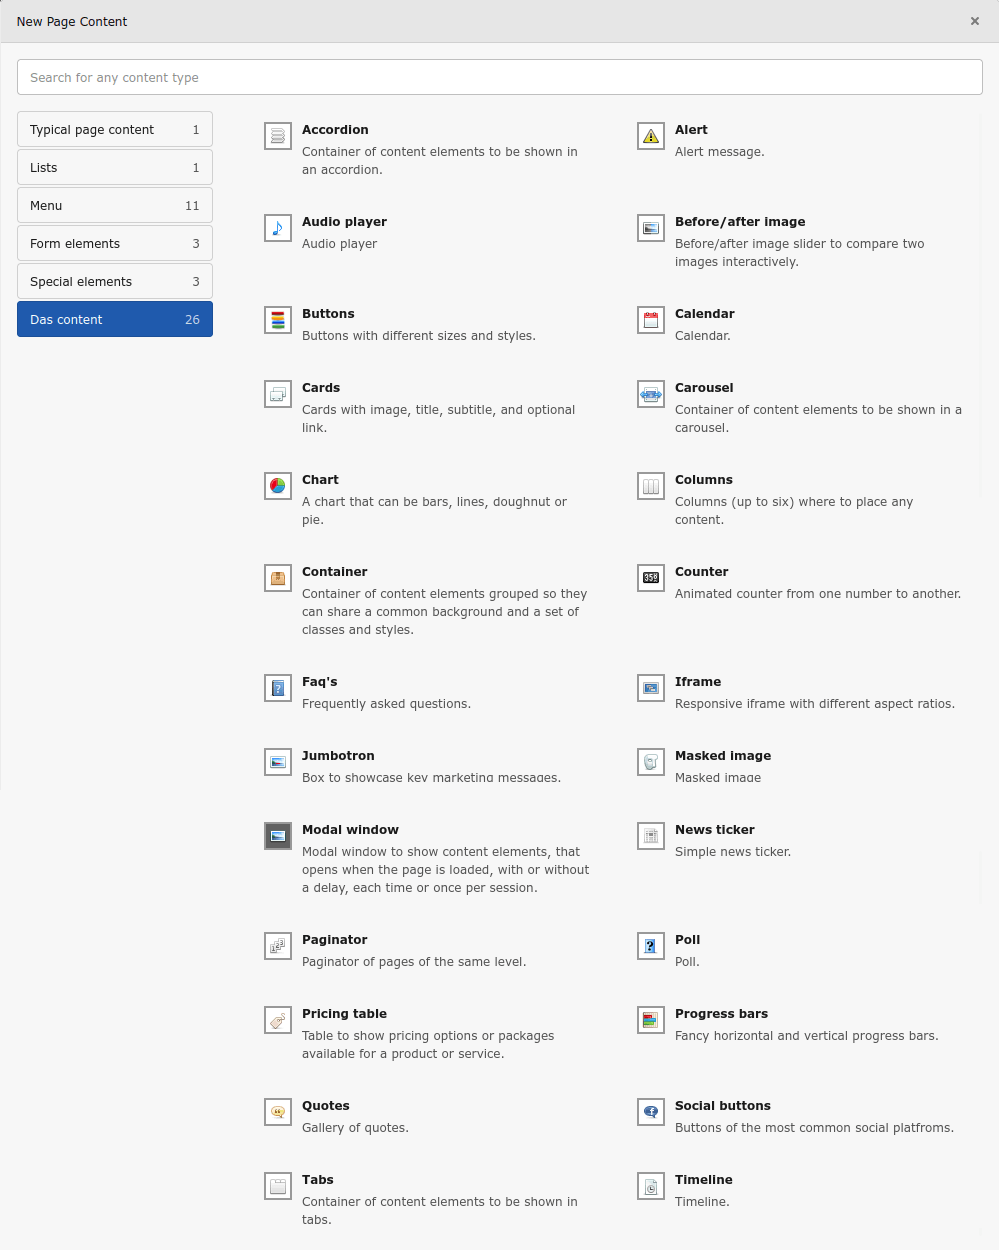
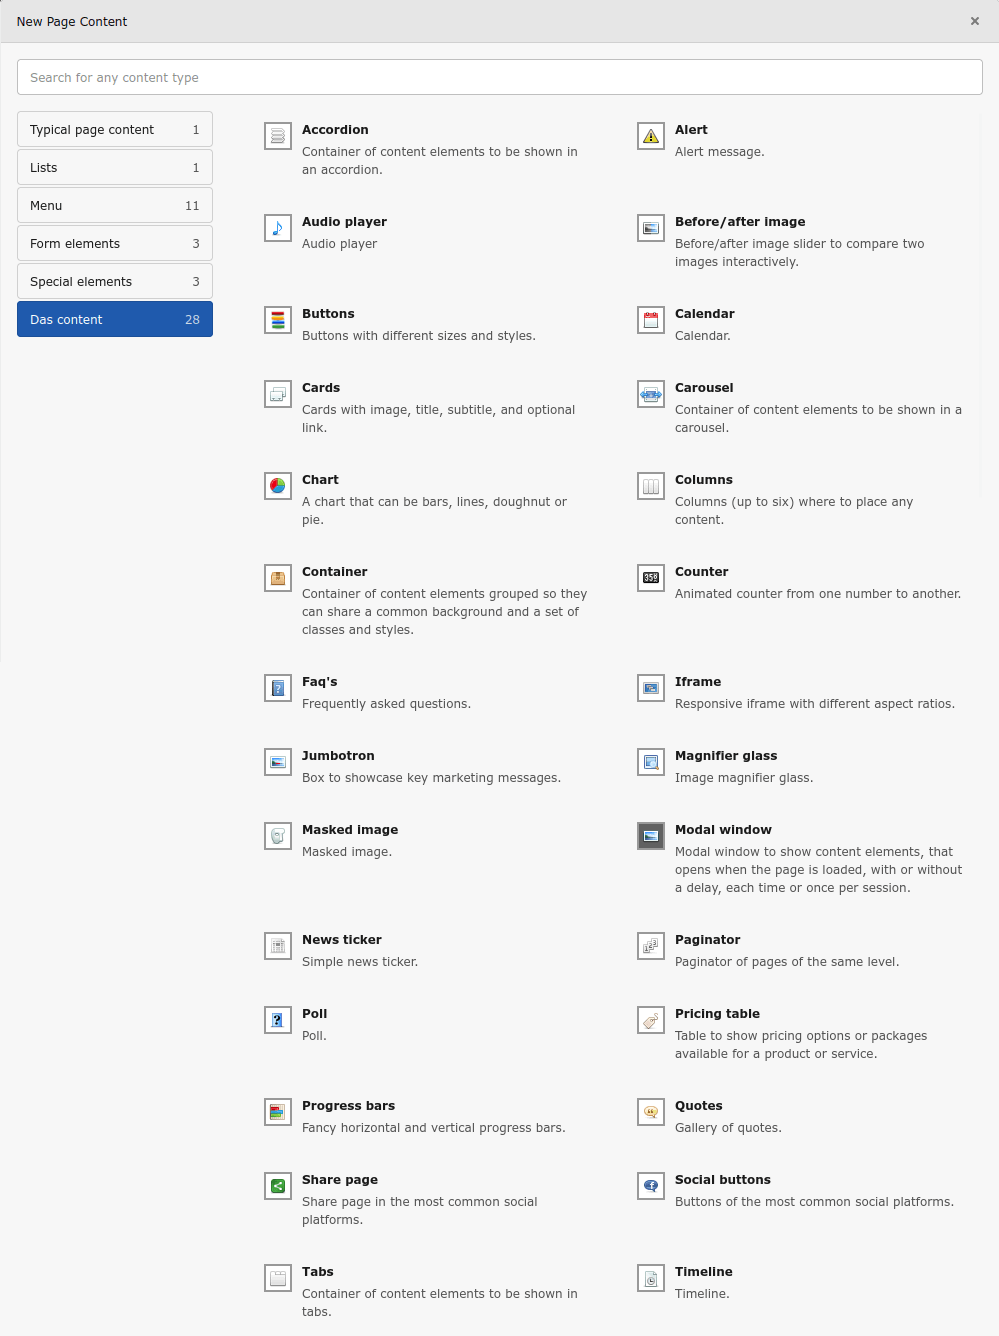
[TASK] Add Magnifier glass content element

diff --git a/Resources/Private/Templates/Content/MagnifierGlass.html b/Resources/Private/Templates/Content/MagnifierGlass.html
@@ -1,0 +1,68 @@
+<f:layout name="Content" />
+
+<f:section name="Configuration">
+    <flux:form
+        id="MagnifierGlass"
+        label="LLL:EXT:das/Resources/Private/Language/locallang_be.xlf:tt_content.magnifierglass"
+        description="LLL:EXT:das/Resources/Private/Language/locallang_be.xlf:tt_content.magnifierglass.description"
+    >
+        <flux:form.option.group
+            value="dasContent"
+        />
+        <flux:form.option.icon
+            value="EXT:das/Resources/Public/Icons/Content/MagnifierGlass.png"
+        />
+        <flux:field.select
+            name="layout"
+            label="LLL:EXT:das/Resources/Private/Language/locallang_be.xlf:layout"
+            items="{
+                0:{0: 'LLL:EXT:das/Resources/Private/Language/locallang_be.xlf:default', 1: '0'}
+            }"
+            requestUpdate="1"
+        />
+        <flux:field.inline.fal
+            name="images"
+            label="LLL:EXT:das/Resources/Private/Language/locallang_be.xlf:tt_content.magnifierglass.image"
+            description="LLL:EXT:das/Resources/Private/Language/locallang_be.xlf:tt_content.magnifierglass.image.description"
+            minItems="1"
+            maxItems="1"
+            allowedExtensions="jpg,jpeg,png,gif,webp"
+        />
+    </flux:form>
+</f:section>
+
+<f:section name="Preview">
+    <table class="table table-condensed table-hover">
+        <tbody>
+            <tr>
+                <th>
+                    <f:translate key="LLL:EXT:das/Resources/Private/Language/locallang_be.xlf:layout" />
+                </th>
+                <td width="20%">
+                    <f:if condition="{layout} == 0">
+                        <f:then>
+                            <f:translate key="LLL:EXT:das/Resources/Private/Language/locallang_be.xlf:default" />
+                        </f:then>
+                        <f:else>
+                            <f:translate key="LLL:EXT:das/Resources/Private/Language/locallang_be.xlf:custom" />
+                        </f:else>
+                    </f:if>
+                </td>
+            </tr>
+            <tr>
+                <th>
+                    <f:translate key="LLL:EXT:das/Resources/Private/Language/locallang_be.xlf:tt_content.magnifierglass.image" />
+                </th>
+                <td>
+                    <v:page.resources.fal table="tt_content" field="images" as="images" record="{record}">
+                        <img src="{f:uri.image(src: '{images.0.id}', width: 100, treatIdAsReference: 1)}" width="100" alt="" />
+                    </v:page.resources.fal>
+                </td>
+            </tr>
+        </tbody>        
+    </table>
+</f:section>
+
+<f:section name="Main">
+    <f:render partial="Content/Main/MagnifierGlass" arguments="{_all}" />
+</f:section>

diff --git a/Resources/Public/JavaScript/js.js b/Resources/Public/JavaScript/js.js
@@ -25,6 +25,8 @@ jQuery(document).ready(function ($) {
     initTooltips();
     initAudioPlayer();
     initPolls();
+    initMagnifierGlass();
+
 });
 
 function initGallery() {
@@ -229,7 +231,45 @@ function sendPoll(poll, answer) {
     $.get(window.location.href, { no_cache: 1, pk_campaign: poll, pk_kwd: answer }).done(function( data ) {
         const $resp = $("<div>").html(data);
         const html = $resp.find("#tx-das-content-poll-board-" + pollx).html() || "";
-        $('#tx-das-content-poll-board-' + pollx).html(html);
+        $("#tx-das-content-poll-board-" + pollx).html(html);
     });
+}
 
+function initMagnifierGlass() {
+    $(".tx-das-content-magnifierglass").each(function() {
+        var large = $(this).find(".large"),
+            small = $(this).find(".small"),
+            native_width = 0,
+	        native_height = 0
+            large_width = 0,
+            small_width = 0,
+            large_height = 0,
+            small_height = 0;
+        $(this).on("mousemove", function(e) {
+            if (!native_width && !native_height){
+                native_width = small.attr("data-width");
+                native_height = small.attr("data-height");
+                large_width = large.width();
+                small_width = small.width();
+                large_height = large.height();
+                small_height = small.height();
+            }
+            var magnify_offset = $(this).offset(),
+                mx = e.pageX - magnify_offset.left,
+                my = e.pageY - magnify_offset.top;
+            if (mx < $(this).width() && my < $(this).height() && mx > 0 && my > 0) {
+                large.fadeIn(100);
+            } else{
+                large.fadeOut(100);
+            }
+            if (large.is(":visible")) {
+                var rx = Math.round(mx/small.width()*native_width - large_width/2) * -1,
+                    ry = Math.round(my/small.height()*native_height - large_height/2) * -1,
+                    bgp = rx + "px " + ry + "px",                
+                    px = mx - large_width / 2,
+                    py = my - large_height / 2;
+                large.css({left: px, top: py, backgroundPosition: bgp});
+            }
+        });
+    });
 }

diff --git a/Resources/Public/Css/css.css b/Resources/Public/Css/css.css
@@ -7,7 +7,7 @@ body {
     margin-top: 126px
 }
 
-*:hover{
+a:hover {
     -webkit-transition: all 1s ease;
     transition: all 1s ease;
 }
@@ -911,6 +911,48 @@ audio {
 .tx-das-content-maskedimage img {
     mask-repeat: no-repeat;
     mask-size: cover;
+}
+
+/* Magnifier glass */
+
+.tx-das-content-magnifierglass {
+    position: relative;
+    width: 100%;
+}
+
+.tx-das-content-magnifierglass .large {
+    display: none;
+    position: absolute;
+    width: 200px;
+    height: 200px;
+    border-radius: 100%;
+    box-shadow: 0 0 0 7px rgba(255, 255, 255, 0.85), 0 0 7px 7px rgba(0, 0, 0, 0.25), inset 0 0 40px 2px rgba(0, 0, 0, 0.25);
+    z-index: 1000;
+}
+
+.tx-das-content-magnifierglass .small {
+    display: block;
+}
+
+@media (min-width: 768px) {
+    .tx-das-content-magnifierglass .large {
+        width: 250px;
+        height: 250px;
+    }
+}
+
+@media (min-width: 992px) {
+    .tx-das-content-magnifierglass .large {
+        width: 300px;
+        height: 300px;
+    }
+}
+
+@media (min-width: 1200px) {
+    .tx-das-content-magnifierglass .large {
+        width: 375px;
+        height: 375px;
+    }
 }
 
 /* bg */

diff --git a/Resources/Private/Partials/Content/Main/MagnifierGlass.html b/Resources/Private/Partials/Content/Main/MagnifierGlass.html
@@ -1,0 +1,6 @@
+<div class="tx-das-content-magnifierglass tx-das-content-magnifierglass-layout-{layout}" data-id="c{record.uid}">
+    <v:page.resources.fal table="tt_content" field="images" as="images" record="{record}">
+        <div class="large" style="background: url('{images.0.url}') no-repeat;"></div>
+        <img src="{f:uri.image(src: '{images.0.uid}', treatIdAsReference: 1)}" alt="{file.description}" class="small" loading="{settings.lazyLoading}" data-width="{images.0.width}" data-height="{images.0.height}" />
+    </v:page.resources.fal>
+</div>

diff --git a/ext_emconf.php b/ext_emconf.php
@@ -6,7 +6,7 @@ $EM_CONF[$_EXTKEY] = [
     'category' => 'fe',
     'author' => 'Jaume Presas Puig',
     'author_email' => 'jaume@jaumepresas.com',
-    'version' => '1.0.4',
+    'version' => '1.0.5',
     'state' => 'stable',
     'constraints' => [
         'depends' => [

diff --git a/CHANGELOG.md b/CHANGELOG.md
@@ -1,8 +1,9 @@
-Latest release: 1.0.4 (2026/04/14 00:28:36)
+Latest release: 1.0.4 (2026/04/27 01:46:31)
 
 All release change logs:
 
-* [1.0.4 (2026/04/08) - Full list of changes](https://github.com/jaumepresaspuig/das/compare/1.0.3...1.0.4)
+* [1.0.5 (2026/04/27) - Full list of changes](https://github.com/jaumepresaspuig/das/compare/1.0.4...1.0.5)
+* [1.0.4 (2026/04/14) - Full list of changes](https://github.com/jaumepresaspuig/das/compare/1.0.3...1.0.4)
 * [1.0.3 (2026/04/08) - Full list of changes](https://github.com/jaumepresaspuig/das/compare/1.0.2...1.0.3)
 * [1.0.2 (2026/03/31) - Full list of changes](https://github.com/jaumepresaspuig/das/compare/1.0.1...1.0.2)
 * [1.0.1 (2026/03/24) - Full list of changes](https://github.com/jaumepresaspuig/das/compare/1.0.0...1.0.1)
